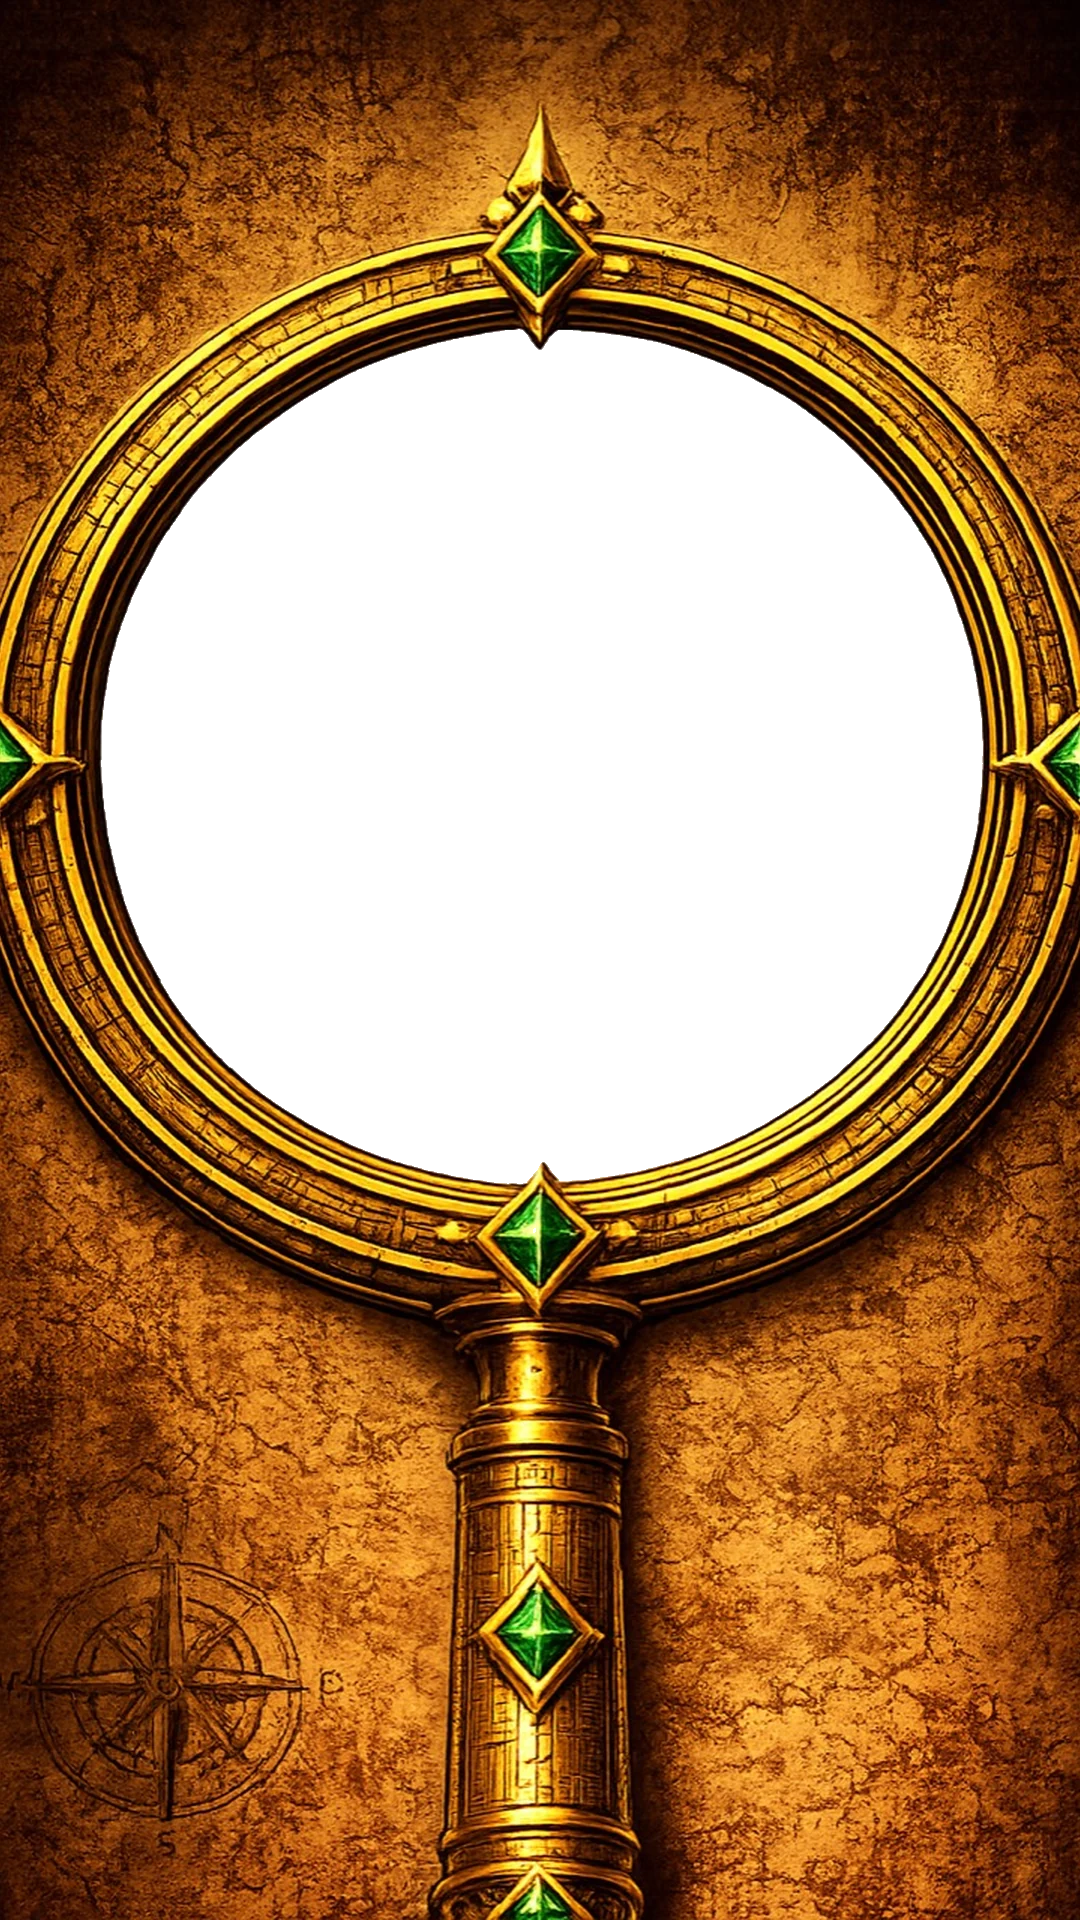
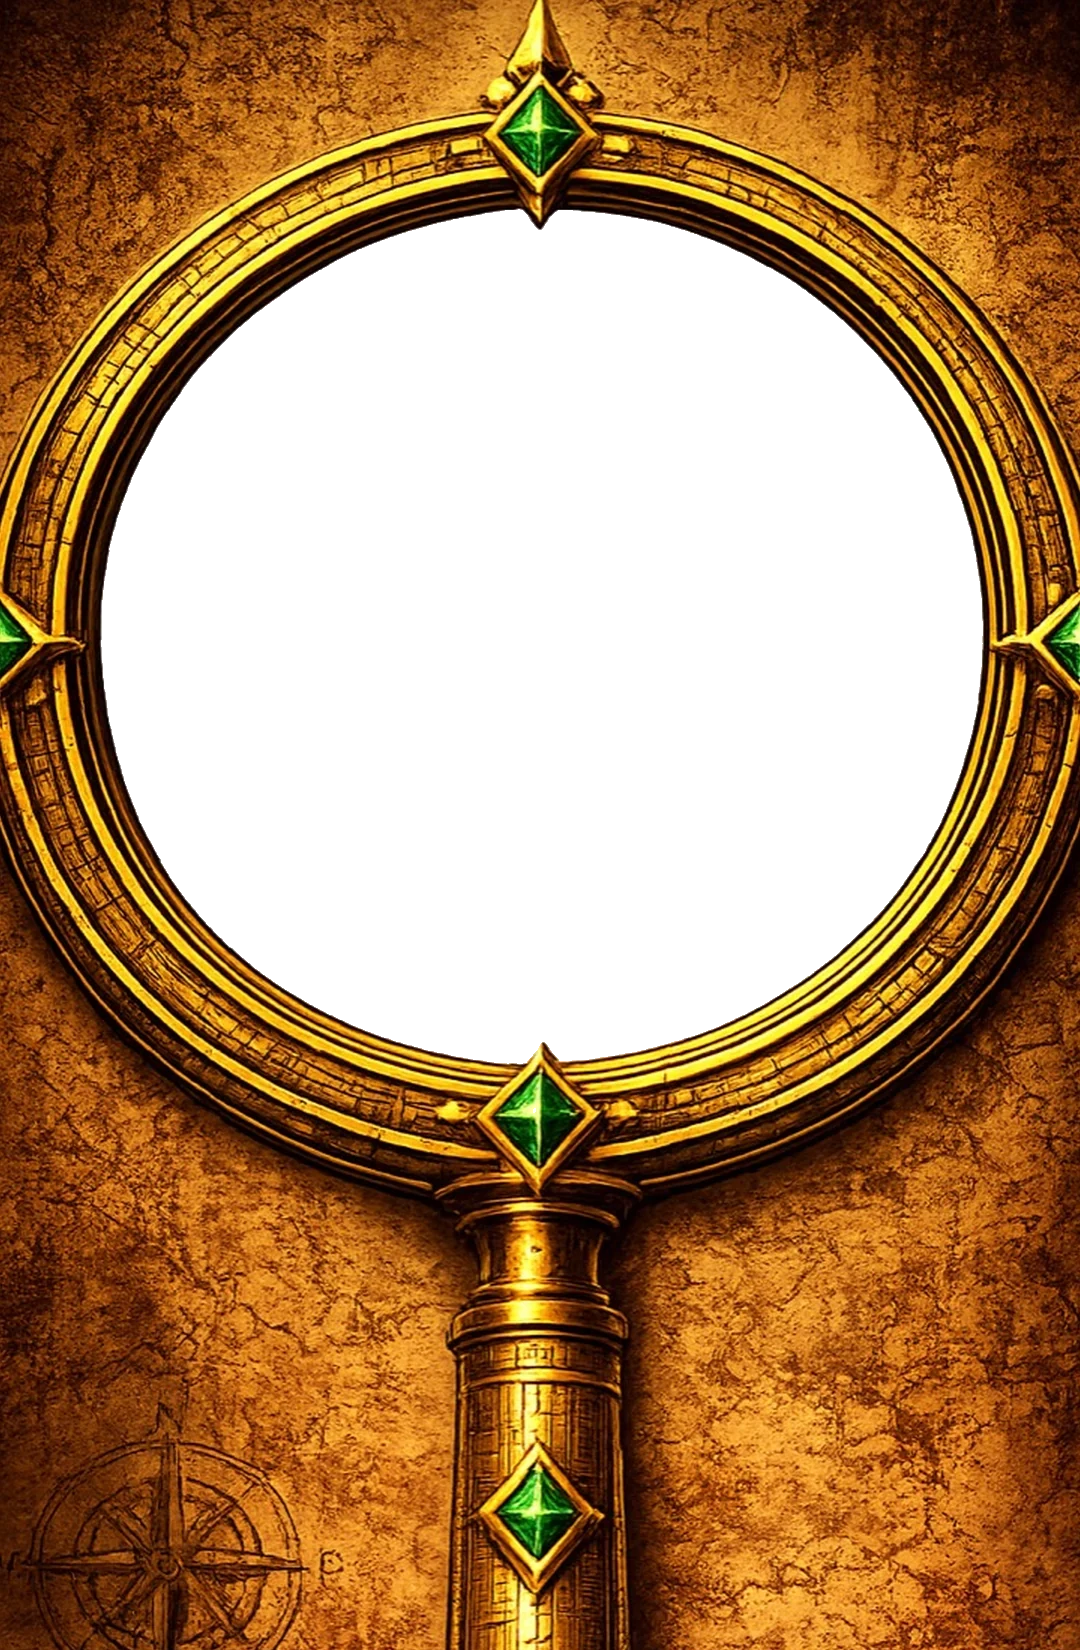
Crop scanner art for wider lens

diff --git a/styles.css b/styles.css
@@ -2123,7 +2123,7 @@ button:disabled {
 }
 
 .overlay-card.scanner-modal-card {
-  width: min(100%, 480px, max(300px, calc(56.25dvh - 94px)));
+  width: min(100%, 480px, max(320px, calc(65.45dvh - 109px)));
   padding: 0;
   overflow: hidden;
   border-color: rgba(242, 201, 76, 0.34);
@@ -2176,7 +2176,7 @@ button:disabled {
   position: relative;
   display: block;
   width: 100%;
-  aspect-ratio: 1080 / 1920;
+  aspect-ratio: 1080 / 1650;
   overflow: hidden;
   color: #fff;
   background: #090504;
@@ -2186,7 +2186,7 @@ button:disabled {
   position: absolute;
   inset: 0;
   background:
-    radial-gradient(circle at 50% 39%, rgba(18, 42, 35, 0.76), rgba(5, 9, 8, 0.28) 35%, rgba(5, 9, 8, 0.86) 53%),
+    radial-gradient(circle at 50% 38.6%, rgba(18, 42, 35, 0.76), rgba(5, 9, 8, 0.28) 35%, rgba(5, 9, 8, 0.86) 53%),
     linear-gradient(rgba(255, 255, 255, 0.025) 1px, transparent 1px),
     linear-gradient(90deg, rgba(255, 255, 255, 0.025) 1px, transparent 1px);
   background-size: auto, 32px 32px, 32px 32px;
@@ -2233,7 +2233,7 @@ button:disabled {
 
 #reader__scan_region > div[style*="position: absolute"] {
   display: none !important;
-  top: 39.1% !important;
+  top: 38.6% !important;
   left: 50% !important;
   right: auto !important;
   bottom: auto !important;
@@ -2260,7 +2260,7 @@ button:disabled {
 .scanner-empty {
   position: absolute;
   z-index: 3;
-  top: 39.1%;
+  top: 38.6%;
   left: 50%;
   display: grid;
   width: 66%;
@@ -2324,27 +2324,27 @@ button:disabled {
 
 .scanner-jewel-glow-top {
   left: 50%;
-  top: 11.5%;
+  top: 6.1%;
 }
 
 .scanner-jewel-glow-left {
   left: 8.5%;
-  top: 42.3%;
+  top: 41.9%;
 }
 
 .scanner-jewel-glow-right {
   left: 91.5%;
-  top: 42.3%;
+  top: 41.9%;
 }
 
 .scanner-jewel-glow-bottom {
   left: 50%;
-  top: 67.3%;
+  top: 71%;
 }
 
 .scanner-jewel-glow-handle {
   left: 50%;
-  top: 85.7%;
+  top: 92.4%;
 }
 
 .scanner-shell.is-live .scanner-jewel-glow {
@@ -2358,7 +2358,7 @@ button:disabled {
 .scan-line {
   position: absolute;
   z-index: 4;
-  top: 39.1%;
+  top: 38.6%;
   left: 23%;
   display: none;
   width: 54%;

diff --git a/index.html b/index.html
@@ -11,7 +11,7 @@
   <link rel="manifest" href="manifest.webmanifest" />
   <link rel="apple-touch-icon" href="assets/icon-192.png" />
   <link rel="stylesheet" href="assets/vendor/leaflet-1.9.4.css" />
-  <link rel="stylesheet" href="styles.css?v=54" />
+  <link rel="stylesheet" href="styles.css?v=55" />
   <script src="assets/vendor/html5-qrcode-2.3.8.min.js"></script>
   <script src="assets/vendor/leaflet-1.9.4.min.js"></script>
   <script

diff --git a/service-worker.js b/service-worker.js
@@ -1,6 +1,6 @@
 "use strict";
 
-const CACHE_NAME = "gotcha-mvp-v66";
+const CACHE_NAME = "gotcha-mvp-v67";
 const APP_SHELL = [
   "./",
   "./index.html",
@@ -9,7 +9,7 @@ const APP_SHELL = [
   "./admin.css?v=4",
   "./admin.js?v=4",
   "./admin.webmanifest",
-  "./styles.css?v=54",
+  "./styles.css?v=55",
   "./supabase-config.js?v=1",
   "./app.js?v=52",
   "./hunts.json",
